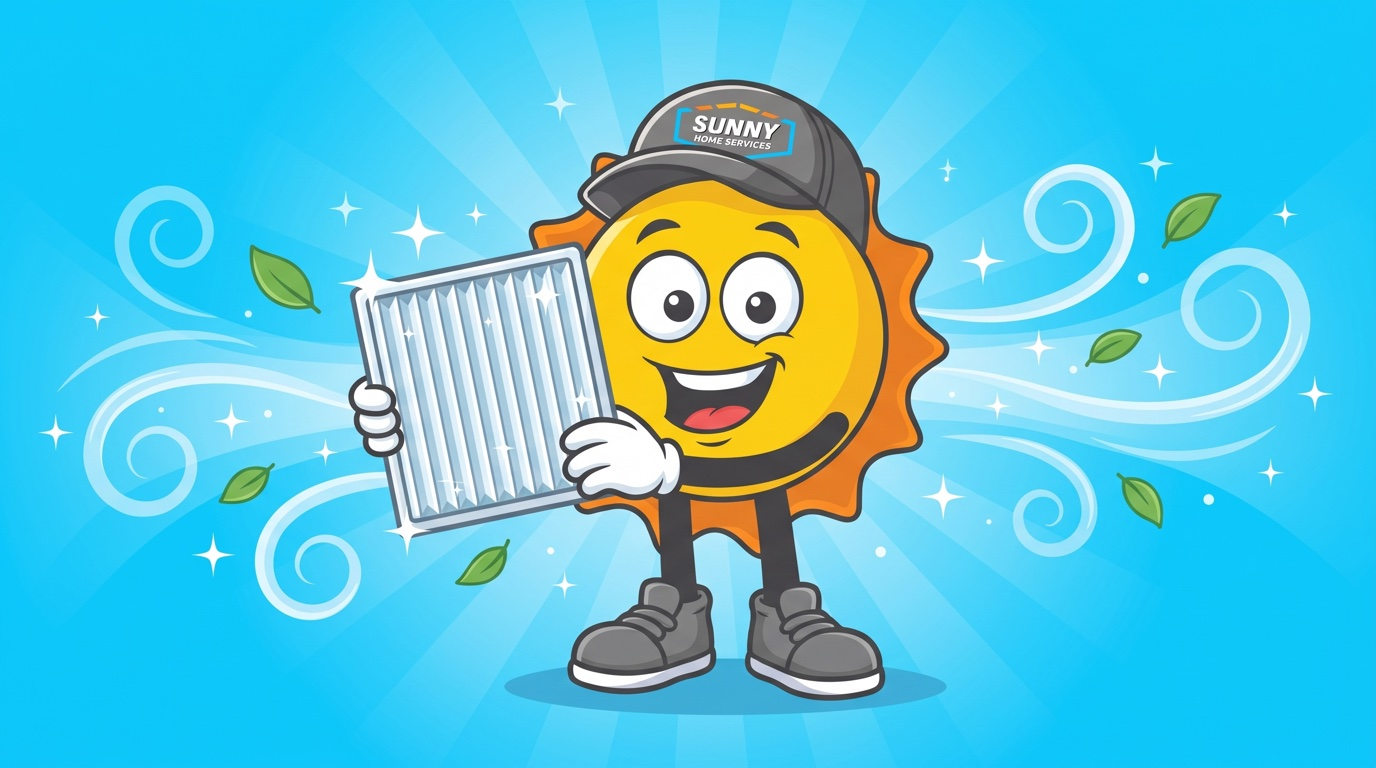
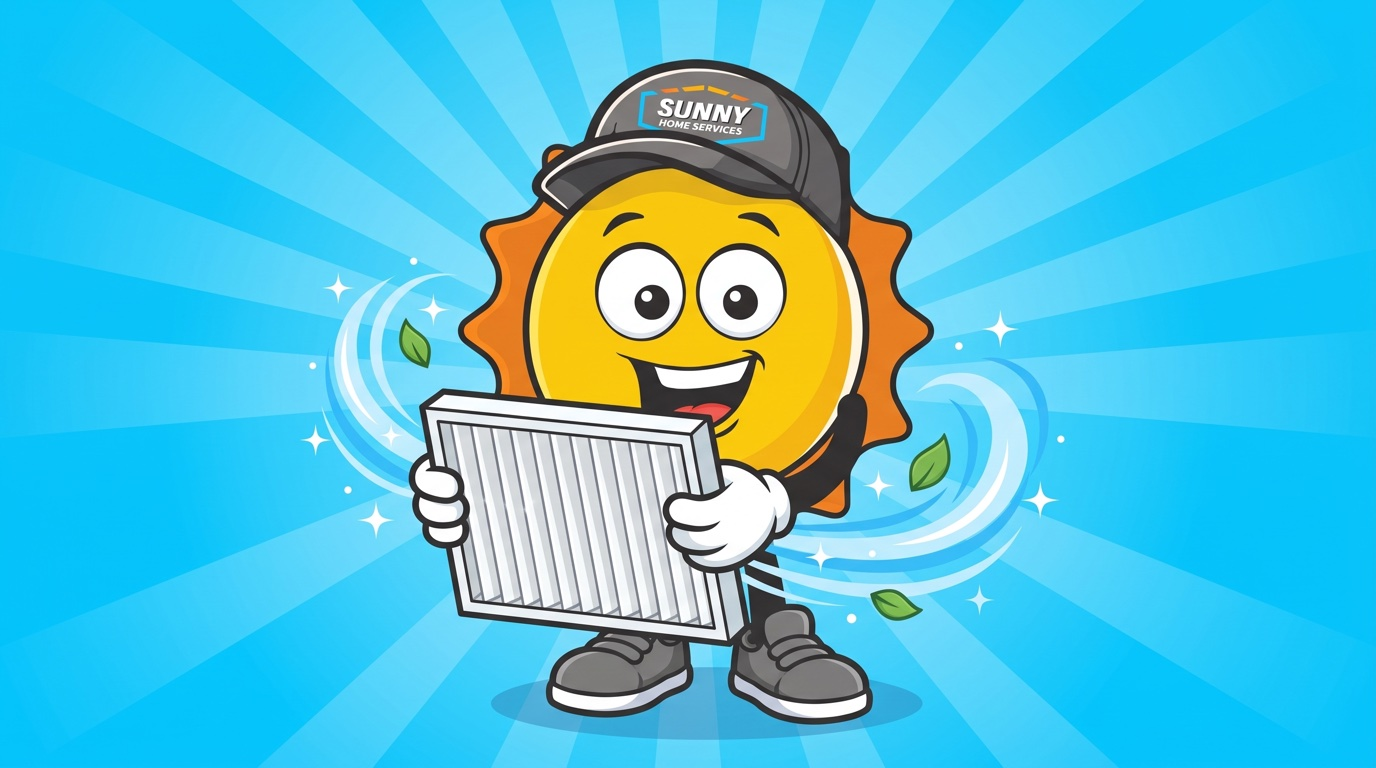
Homepage: Wasatch Front hero copy, hero text clears van, smaller tiles, brand-consistent mascots (#6)
- Hero headline: "in West Jordan, UT" -> "on the Wasatch Front"
- Hero text constrained to a left column + stronger left scrim + van nudged
  right so the copy no longer overlaps the van/brand shield
- Service tiles: reduced from 340px to 270px, tighter type
- Regenerated all 6 mascot service images with a locked Sunny cap logo and a
  unified flat-vector style for full brand consistency

diff --git a/css/sunny-home.css b/css/sunny-home.css
@@ -21,9 +21,12 @@
     :root {
       --font-body: 'Rubik Test Medium', system-ui, sans-serif;
     }
-    /* Hero: keep each title line on one line; the second line types in via the typewriter */
-    .section-hero .display-hero { font-family: var(--font-display); font-size: clamp(40px, 5.6vw, 80px); white-space: nowrap; }
+    /* Hero: text kept to a left column so it clears the van; wraps instead of one long line */
+    .section-hero .display-hero { font-family: var(--font-display); font-size: clamp(36px, 4.6vw, 62px); white-space: normal; max-width: 560px; }
     .section-hero .alt-font { font-family: 'Archivo Black', var(--font-display); font-weight: 400; font-size: 0.84em; }
+    .section-hero .hero-content .lead-on-video,
+    .section-hero .hero-content .cta-row { max-width: 560px; }
+    .section-hero .hero-video { object-position: 70% center; }
 
     /* ---------- Header brand lockup (larger logo, mascot tucked) ---------- */
     .header-logo { gap: 5px; }
@@ -87,8 +90,11 @@
 
     /* ---------- Service tiles (6-up: the brief's 6 service lines, 3 across x 2 rows) ---------- */
     .ac-tiles { display: grid; grid-template-columns: repeat(4, 1fr); gap: 18px; margin-top: 56px; }
-    .ac-tiles-six { grid-template-columns: repeat(3, 1fr); }
-    .ac-tiles-six .ac-tile { height: 340px; }
+    .ac-tiles-six { grid-template-columns: repeat(3, 1fr); gap: 20px; }
+    .ac-tiles-six .ac-tile { height: 270px; }
+    .ac-tiles-six .ac-tile-title { font-size: 22px; }
+    .ac-tiles-six .ac-tile-desc { font-size: 13px; }
+    .ac-tiles-six .ac-tile-body { padding: 20px; }
     @media (max-width: 1100px) { .ac-tiles-six { grid-template-columns: repeat(2, 1fr); } }
     @media (max-width: 640px)  { .ac-tiles-six { grid-template-columns: 1fr; } }
 

diff --git a/index.html b/index.html
@@ -118,10 +118,10 @@
         <span class="word">Plumbing</span>
         <span class="word">Company</span>
         <br>
-        <span class="word alt-font">in</span>
-        <span class="word alt-font">West</span>
-        <span class="word alt-font">Jordan,</span>
-        <span class="word alt-font">UT</span>
+        <span class="word alt-font">on</span>
+        <span class="word alt-font">the</span>
+        <span class="word alt-font">Wasatch</span>
+        <span class="word alt-font">Front</span>
       </h1>
       <p class="lead lead-on-video">Same-day emergency response. Certified technicians. Upfront pricing. Serving Wasatch Front Homes.</p>
       <div class="cta-row">

diff --git a/css/sunny-engine.css b/css/sunny-engine.css
@@ -317,7 +317,7 @@ img { max-width: 100%; display: block; }
   inset: 0;
   z-index: 1;
   background:
-    linear-gradient(90deg, rgba(14,30,50,0.75) 0%, rgba(14,30,50,0.35) 55%, rgba(14,30,50,0.55) 100%),
+    linear-gradient(90deg, rgba(14,30,50,0.88) 0%, rgba(14,30,50,0.62) 38%, rgba(14,30,50,0.12) 70%, rgba(14,30,50,0.22) 100%),
     linear-gradient(180deg, rgba(0,0,0,0.20) 0%, rgba(0,0,0,0) 30%, rgba(0,0,0,0) 70%, rgba(0,0,0,0.45) 100%);
   pointer-events: none;
 }
